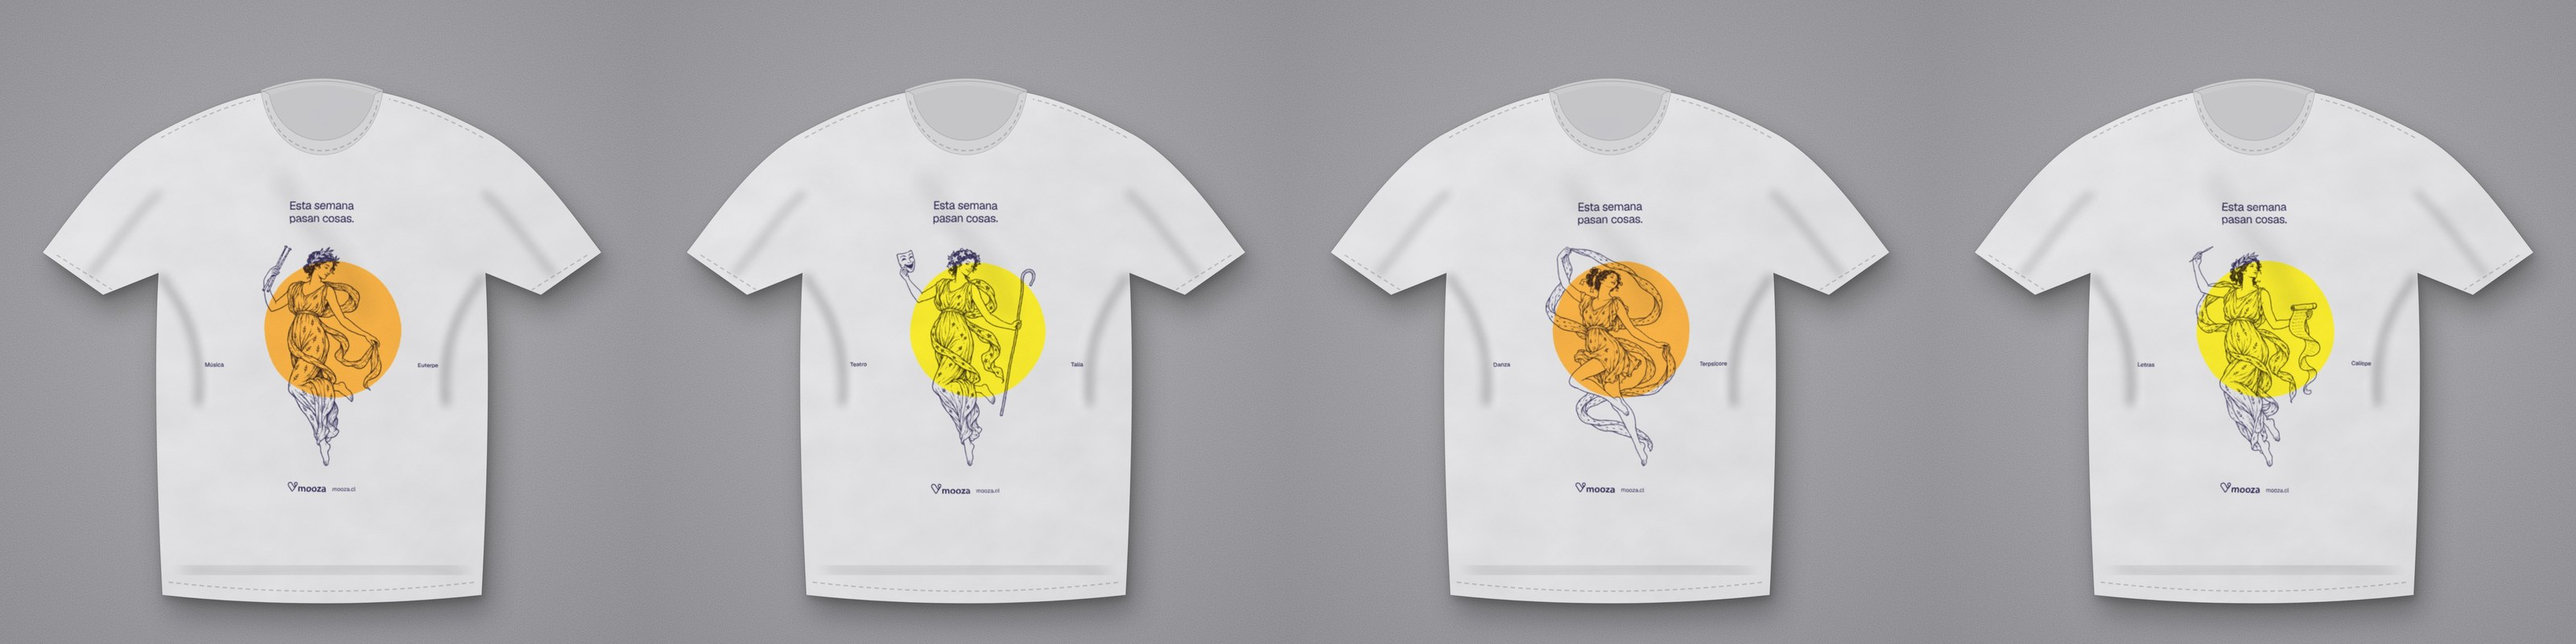
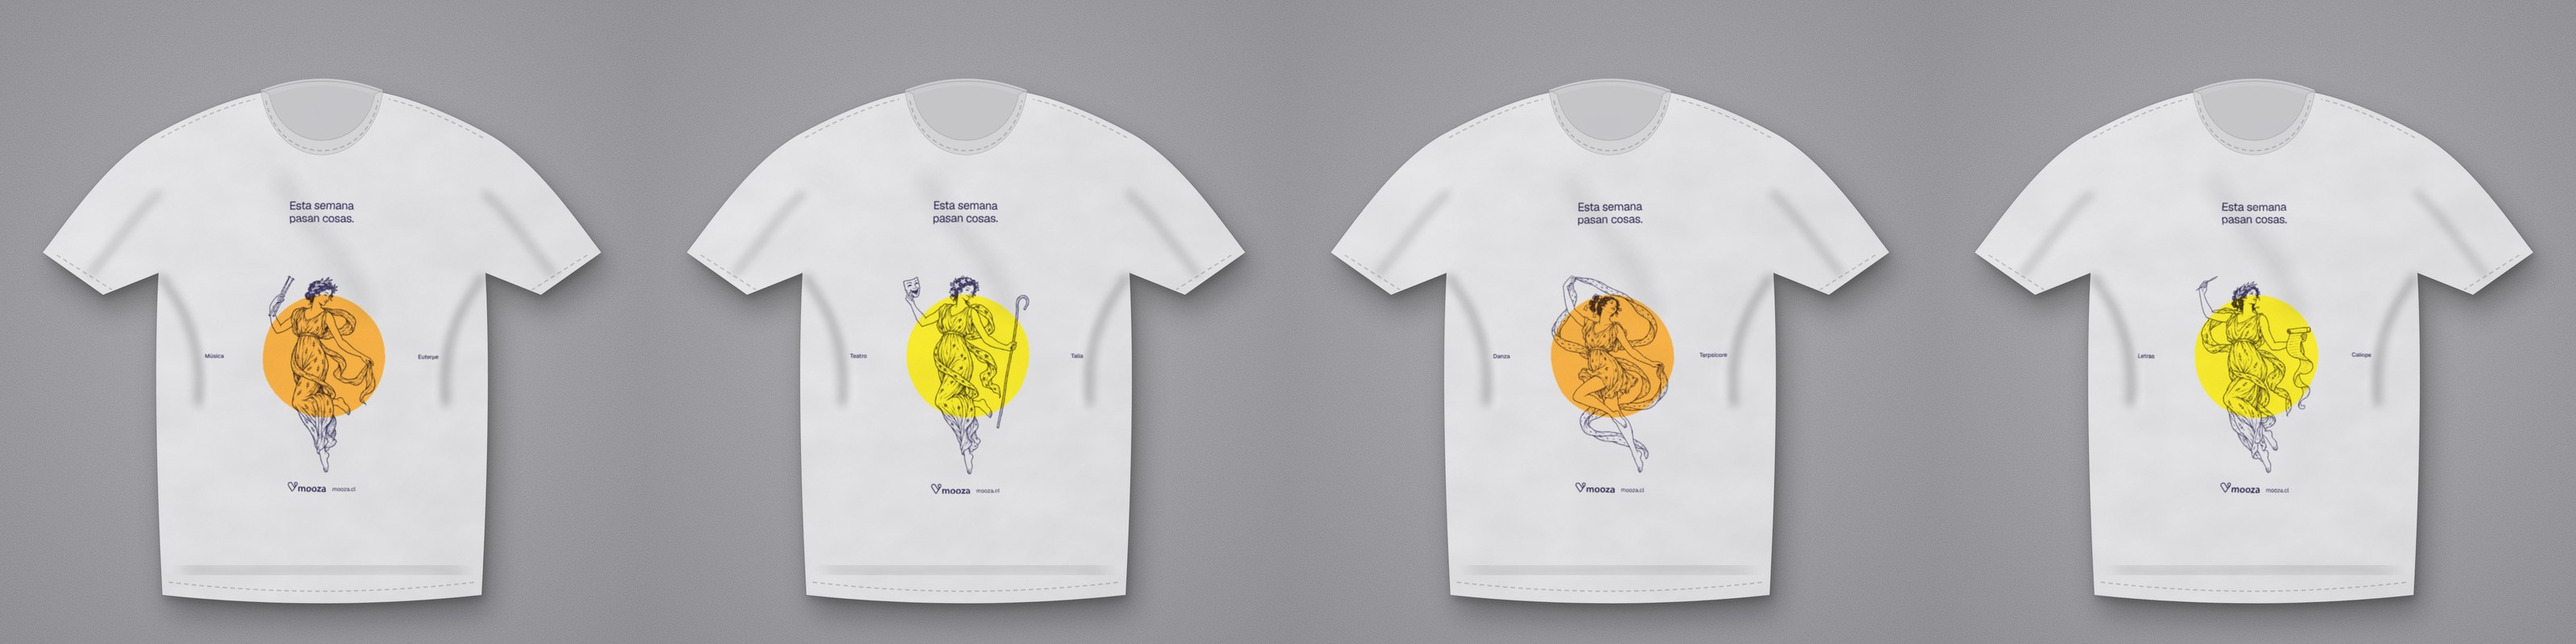
Agenda cultural reemplaza a Tu semana cultural en todo el sistema; se elimina la línea gruesa; círculo de las poleras centrado entre los cuatro bloques
Claude-Session: https://claude.ai/code/session_01FatczGDNUrWcTXBDB5f52U

diff --git a/caso-de-estudio/index.html b/caso-de-estudio/index.html
@@ -117,7 +117,7 @@ h3{font-size:clamp(22px,2.4vw,32px);font-weight:500;line-height:1.1;letter-spaci
     </div>
     <div class="titulo">
       <span class="eyebrow">Rebrand de Mooza</span>
-      <h1>Tu semana cultural</h1>
+      <h1>Agenda cultural</h1>
       <p class="lead">Nuevo sistema de marca.</p>
     </div>
     <img class="portada-img" src="img/hero.webp" alt="Cuatro carteles de Mooza: titular en amarillo, foto de un saxofonista en azul sobre naranjo, semana en naranjo y número en amarillo" width="3200" height="926">
@@ -153,7 +153,7 @@ h3{font-size:clamp(22px,2.4vw,32px);font-weight:500;line-height:1.1;letter-spaci
   <div class="in">
     <div class="cab"><span class="eyebrow">Tipografía</span><h2>Geist</h2></div>
     <div class="espec">
-      <div><p class="a">Tu semana cultural</p><p class="m">Titular</p></div>
+      <div><p class="a">Agenda cultural</p><p class="m">Titular</p></div>
       <div><p class="b">Cuarteto de jazz en vivo</p><p class="m">Nombre</p></div>
       <div><p class="c">26–1 • 21:00 • $8.000</p><p class="m">Datos</p></div>
       <div><p class="d">Teatro del Parque • Vie 30 • desde $8.000</p><p class="m">Texto</p></div>
@@ -232,9 +232,6 @@ h3{font-size:clamp(22px,2.4vw,32px);font-weight:500;line-height:1.1;letter-spaci
       <figure><img src="img/musa-terpsicore.jpg" alt="Terpsícore, musa de la danza, saltando con un pañuelo largo, sobre un corte de gris y amarillo" width="1224" height="1584"><figcaption><b>Danza</b>Terpsícore</figcaption></figure>
       <figure><img src="img/musa-caliope.jpg" alt="Calíope, musa de las letras, con un rollo y una pluma, sobre un corte de naranjo y gris" width="1224" height="1584"><figcaption><b>Letras</b>Calíope</figcaption></figure>
     </div>
-    <div class="paso musas" style="margin-top:clamp(24px,3vw,48px)">
-      <figure><img src="img/musa-euterpe-b.jpg" alt="Euterpe en línea gruesa, tocando la flauta doble sobre un pie, sobre un corte de naranjo y gris" width="1224" height="1584"><figcaption><b>Línea gruesa</b>Euterpe</figcaption></figure>
-    </div>
   </div>
 </section>
 
@@ -252,7 +249,7 @@ h3{font-size:clamp(22px,2.4vw,32px);font-weight:500;line-height:1.1;letter-spaci
 <section class="banda base fondo" style="--f:url(img/fondo-base-6.svg)">
   <div class="in">
     <div class="cab"><span class="eyebrow">Instagram</span><h2>Carrusel</h2></div>
-    <div class="tira"><img src="img/d-carrusel.jpg" alt="Carrusel de cuatro láminas: portada Tu semana cultural, dos láminas de agenda del sábado con tres y dos eventos, y un cierre en naranjo" width="1662" height="515"></div>
+    <div class="tira"><img src="img/d-carrusel.jpg" alt="Carrusel de cuatro láminas: portada Agenda cultural, dos láminas de agenda del sábado con tres y dos eventos, y un cierre en naranjo" width="1662" height="515"></div>
   </div>
 </section>
 

diff --git a/guidelines/index.html b/guidelines/index.html
@@ -270,7 +270,7 @@ input[type=range]{width:100%;accent-color:var(--mz-amarillo);height:26px;margin:
     <h2>Una sola familia, la jerarquía en el tamaño</h2>
     <div class="tipo">
       <div class="muestra">
-        <span class="s">Tu semana cultural</span>
+        <span class="s">Agenda cultural</span>
         <span class="n">26–1</span>
         <p class="d">Geist para todo. Peso 400 en titulares, nombres y textos; peso 500 en números, fechas, horas, precios y etiquetas. Licencia abierta (OFL) en Google Fonts. Lo que ordena la lectura es el tamaño, no el peso.</p>
       </div>

diff --git a/guidelines/web.html b/guidelines/web.html
@@ -126,7 +126,7 @@ h2{font-family:var(--mz-palabra);font-weight:var(--mz-peso-titular);letter-spaci
     <div class="g7">
       <div class="txt">
         <span class="k">Agenda cultural • Chile</span>
-        <h1>Tu semana<br>cultural</h1>
+        <h1>Agenda<br>cultural</h1>
         <p class="rango"><b>26 oct – 1 nov</b><span>Semana 44</span></p>
       </div>
       <div class="ilu"><img src="../kit/ilustraciones/svg/erato-lira-claro.svg" alt="Dibujo de una lira, para música"></div>

diff --git a/components/grid/poster.js b/components/grid/poster.js
@@ -30,7 +30,7 @@
   var EJEMPLO={
     rango:'26 oct – 1 nov',
     corto:'26–1',
-    titular:'Tu semana<br>cultural',
+    titular:'Agenda<br>cultural',
     dias:[['L',26],['M',27],['M',28],['J',29],['V',30],['S',31],['D',1]],
     diaDestacado:4,
     evento:{nombre:'Cuarteto de<br>jazz en vivo',meta:'Teatro del Parque<br>Vie 30 • 21:00 • desde $8.000'},

diff --git a/kit/poleras/README.md b/kit/poleras/README.md
@@ -1,33 +1,13 @@
 # Poleras
 
-Maquetas simuladas de las poleras. No son fotografías: son un render propio (silueta, tela con textura, pliegues, costuras, sombra y la estampa deformada levemente por la tela). La estampa va en tinta azul `#1b1444` sobre una polera gris claro.
+Maquetas simuladas, no fotografías: silueta, tela con textura, pliegues, costuras, sombra y estampa en serigrafía simulada. La estampa lleva dos tintas, un círculo naranjo o amarillo y las líneas azules `#1b1444`, impresas en multiplicar con un leve desajuste de registro, sobre una polera gris claro.
 
-- `estampa-euterpe-tipografica.png`: la estampa de la línea tipográfica, con transparencia. Titular `TU SEMANA / CULTURAL` en Geist negrita extra, la musa en línea gruesa, categoría y nombre a los lados, `(AGENDA CULTURAL DE CHILE)` y el pie con el logo y mooza.cl. Los textos y las mayúsculas son una propuesta.
-- `mockup-euterpe-tipografica.jpg`: la polera con esa estampa.
-- `mockup-<musa>-tarot.jpg`: las cuatro poleras con la carta de tarot de `../ilustraciones/tarot/`.
+Diagramación: titular chico en Geist 400, la musa de grabado centrada sobre el círculo (que va en el centro de los cuatro bloques: titular, categoría, nombre y logo), categoría y nombre a los lados, y el logo con mooza.cl abajo. Naranjo y amarillo se alternan entre musas. Sin marco.
 
-Para fotos reales de producto sirven los prompts de `../ilustraciones/prompts-chatgpt.md`, con la carta o la estampa adjunta.
+Frases elegidas: "Esta semana pasan cosas." y "Esta semana sales."
 
-## Pruebas de tipografía (musas de grabado, sin marco)
+- `mockup-<musa>-tarot.jpg`: pruebas anteriores con la carta de tarot de `../ilustraciones/tarot/`.
+- `pruebas/serigrafia-poleras.jpg`: tres frases para Euterpe (una se descartó) y las otras musas.
+- `pruebas/acento-poleras.jpg` y `pruebas/acento-estampas.png`: ronda anterior, con textos por musa que se descartaron.
 
-- `pruebas/tipografias-estampas.png`: las estampas planas, 3 tipografías por 4 musas.
-- `pruebas/tipografias-poleras.jpg`: las mismas sobre polera.
-
-Filas: 1) tipografía de Mooza (Geist 400 y 500, minúscula con inicial), 2) Geist negrita extra en mayúsculas, 3) grotesca extendida negra en mayúsculas (Archivo, ancho 125, peso 900), que no es de la marca.
-
-## Segunda ronda: más blanco, titular chico y acento de color
-
-Cambios pedidos: titular mucho más chico en Geist 400 (sin negrita), más blanco, sin paréntesis ni "Musas 01/04", un texto menos obvio que "Tu semana cultural" y un acento naranjo o amarillo.
-
-- `pruebas/textos-poleras.jpg`: Euterpe con tres textos: "Las musas no avisan. Mooza sí.", "Hay más pasando de lo que crees." y "Alguien está afinando en este momento."
-- `pruebas/acento-poleras.jpg` y `pruebas/acento-estampas.png`: las cuatro musas con un texto propio cada una y un círculo plano de color detrás, en naranjo (fila de arriba) y en amarillo (fila de abajo). El color va impreso bajo las líneas azules y pasa por la figura.
-
-Textos por musa: Euterpe, "Alguien está afinando en este momento."; Talía, "En algún lugar, la sala está por quedar a oscuras."; Terpsícore, "Nadie baila igual dos veces."; Calíope, "Alguien está a punto de leer en voz alta."
-
-## Tercera ronda: diagramación centrada, naranjo y amarillo alternados, simulación de serigrafía
-
-Vuelve la diagramación centrada. Titular chico en Geist 400, sin paréntesis ni "Musas 01/04", y más blanco. Detrás de cada musa va un círculo plano, naranjo o amarillo alternados. La simulación separa dos capas, color y tinta azul, impresas en multiplicar, con un leve desajuste de registro, tinta que no cubre del todo y borde irregular.
-
-- `pruebas/serigrafia-poleras.jpg`: tres frases para Euterpe (arriba) y Talía, Terpsícore y Calíope con la primera frase (abajo).
-
-Frases a elegir, que reemplazan a "Tu semana cultural": "Esta semana pasan cosas.", "Siete días, cuatro musas." y "Esta semana sales."
+Para fotos reales de producto sirven los prompts de `../ilustraciones/prompts-chatgpt.md`.

diff --git a/kit/ilustraciones/prompts-chatgpt.md b/kit/ilustraciones/prompts-chatgpt.md
@@ -86,34 +86,3 @@ Now draw an empty tarot-card frame, as a flat graphic for a screen print. A vert
 Pure black ink only on a pure white background, high contrast, no grey, no shading, no color, no texture, no text, no letters, no numbers, no shadow. Generous margin of white around the card. Vertical format 2:3.
 
 Para el mockup con persona (prompt 2), si se adjunta la foto como referencia, agregar: "Use the attached photo only as a reference for framing, pose and lighting; show a different person, and do not copy the face or the print."
-
-## Nueva dirección: polera tipográfica con personaje (referencia "EASY LIVING")
-
-Cambio de estilo: tipografía enorme y pesada, un personaje simple de línea gruesa y pareja, y textos chicos alrededor. Se le pide a ChatGPT solo el personaje; el texto se compone aparte, exacto.
-
-Composición propuesta (tinta azul `#1b1444` sobre polera gris claro `#f2f2f2`):
-
-- Arriba, chico: `MUSAS 01/04 . MOOZA`.
-- Grande, dos líneas: `TU SEMANA / CULTURAL`, en Geist negrita extra, letras apretadas.
-- Centro: la musa; a la izquierda la categoría en chico, a la derecha su nombre.
-- Debajo: `(AGENDA CULTURAL DE CHILE)`; al pie, el logo y `mooza.cl`.
-
-Pendiente de decidir: mayúsculas y negrita extra solo para poleras (la marca usa minúscula con inicial mayúscula y pesos 400 y 500) y el texto exacto de los textos chicos.
-
-### Mensaje 1: estilo
-
-I'm going to ask you for four illustrations of single characters, all in exactly the same style. Don't generate anything yet; just reply "ready".
-
-Style: a modern, playful, editorial cartoon. Every character is drawn with one uniform, confident black outline of medium-thick weight, like a felt-tip or brush pen: clean, a little imperfect, slightly rounded at the corners. Flat white fill. No shading, no hatching, no texture, no gradients, no patterns. Very few details: a few lines for hair, simple dot eyes, a small curved mouth, clothes with only a handful of simple folds. Relaxed, joyful, slightly exaggerated poses, with a small head, long limbs and big hands, in the spirit of a skater-culture sticker or a modern zine illustration. The figure is complete, shown full body, and its pose reads clearly from the outline alone.
-
-Technical rules for every image: pure black ink only on a pure white background, high contrast, no grey, no color, no text, no letters, no numbers, no frame, no border, no shadow, no scenery. At most one short curved line under the feet to suggest the ground. Centered, with a generous empty margin all around. Vertical format 2:3.
-
-### Mensajes 2 a 5: una musa cada uno
-
-Illustration 1: Euterpe, muse of music. A young woman in a simple tunic with a laurel wreath, mid-step as if dancing, playing a double flute (an aulos: two slim pipes played together), eyes closed, a big relaxed smile. Same style and rules as before.
-
-Illustration 2: Thalia, muse of comedy and theater. A young woman in a simple tunic with an ivy wreath, in a playful pose, holding a comic mask with a wide smiling mouth at arm's length in one hand and a shepherd's crook in the other. A mischievous half smile. Same style and rules as before.
-
-Illustration 3: Terpsichore, muse of dance. A young woman in a short tunic with her hair tied up in a ribbon, barefoot, in the middle of a big leap, both hands holding the ends of a very long scarf that swirls around her. Joyful, head thrown back. Same style and rules as before.
-
-Illustration 4: Calliope, muse of epic poetry and letters. A young woman in a simple tunic with a laurel wreath, one arm raised holding a quill pen, the other hand holding an open scroll that unrolls down in a long curl. Serious and inspired, looking up. Same style and rules as before.

diff --git a/SKILL.md b/SKILL.md
@@ -12,7 +12,7 @@ Decisiones de la marca:
 - Regla de base: cada elemento ocupa celdas completas y ninguno comparte celdas con otro. Los seis elementos (logo, fecha, titular, número, celda y foto) están medidos en `guidelines/elementos.html`. Corre `components/grid/auditoria.mjs` después de cambiar un diseño.
 - La semana es la grilla: siete columnas, una por día. Margen 6 % y medianil 1,2 % del ancho como estándar. Margen entre 3 y 12 %, medianil entre 0,6 y 3,5 % y como máximo la mitad del margen.
 - Orden de importancia del color: gris claro (#f2f2f2, el "blanco" de la marca, fondo de todo), azul (protagonista, no absoluto: cerca de la mitad de las piezas) y amarillo y naranjo (el resto de las zonas, y acentos pequeños). Cada pieza tiene una sola zona de color: azul, amarillo o naranjo. Cada cartel se parte en dos zonas (arriba y abajo; en 16:9, izquierda y derecha): una gris y otra azul (o la foto). Los colores nunca compiten. Texto y logo en azul sobre gris y en blanco sobre azul. No hay negro: el azul es el color más oscuro. Sin degradados, sombras ni iconos.
-- Una sola familia, Geist: peso 400 en palabras y 500 en números y datos. La jerarquía sale del tamaño. Titulares con mayúscula inicial: "Tu semana cultural".
+- Una sola familia, Geist: peso 400 en palabras y 500 en números y datos. La jerarquía sale del tamaño. Titulares con mayúscula inicial: "Agenda cultural".
 - Formatos: 4:5, A3 vertical, 1:1, 9:16 y 16:9, todos con siete columnas. Las filas se eligen para que la celda sea casi cuadrada (tabla en `readme.md`).
 - Pie: la última fila de todo cartel. Logo de dos columnas a la izquierda y fecha a la derecha; nada más entra en esa fila.
 - Logo: nunca redibujado, con media altura de espacio libre y 96 px de ancho mínimo. En carteles va en azul sobre gris. Degradé solo sobre azul.

diff --git a/readme.md b/readme.md
@@ -1,6 +1,6 @@
 # Sistema de diseño Mooza
 
-Mooza (mooza.cl, @mooza_cl) reúne y ordena los panoramas y eventos culturales de Chile en una agenda semanal. Su lema es "Tu semana cultural". Esta versión (v2) reemplaza al sistema anterior, que quedó en el historial de git (commit `525959c`).
+Mooza (mooza.cl, @mooza_cl) reúne y ordena los panoramas y eventos culturales de Chile en una agenda semanal. Su lema es "Agenda cultural". Esta versión (v2) reemplaza al sistema anterior, que quedó en el historial de git (commit `525959c`).
 
 La idea es una sola: la semana es la grilla. Siete columnas, una por día. Cada cartel, story y pantalla se arma sobre ella, con color plano, palabras en serif y números en grotesca.
 
@@ -8,7 +8,7 @@ La idea es una sola: la semana es la grilla. Siete columnas, una por día. Cada 
 
 - Español, con tuteo ("mira", "ven", "guarda tu plan"). Sin voseo y sin emoji.
 - Frases cortas. El cartel dice poco y el evento dice el resto.
-- Titulares en serif, con mayúscula inicial y el resto en minúscula salvo nombres propios, y sin signos de exclamación: "Tu semana cultural", "Hay jazz, teatro y cine".
+- Titulares en serif, con mayúscula inicial y el resto en minúscula salvo nombres propios, y sin signos de exclamación: "Agenda cultural", "Hay jazz, teatro y cine".
 - Nombres de evento, sala y artista en serif y con mayúscula inicial: "Cuarteto de jazz en vivo", "Bar La Otra Casa", "Alejandro Sanz".
 - Etiquetas de categoría con mayúscula inicial: Música, Teatro, Cine, Arte, Danza. Los días también: "Sábado".
 - Fechas: "26 oct – 1 nov", con mes abreviado en minúscula y raya corta con espacios. El rango corto grande se escribe "26–1".
